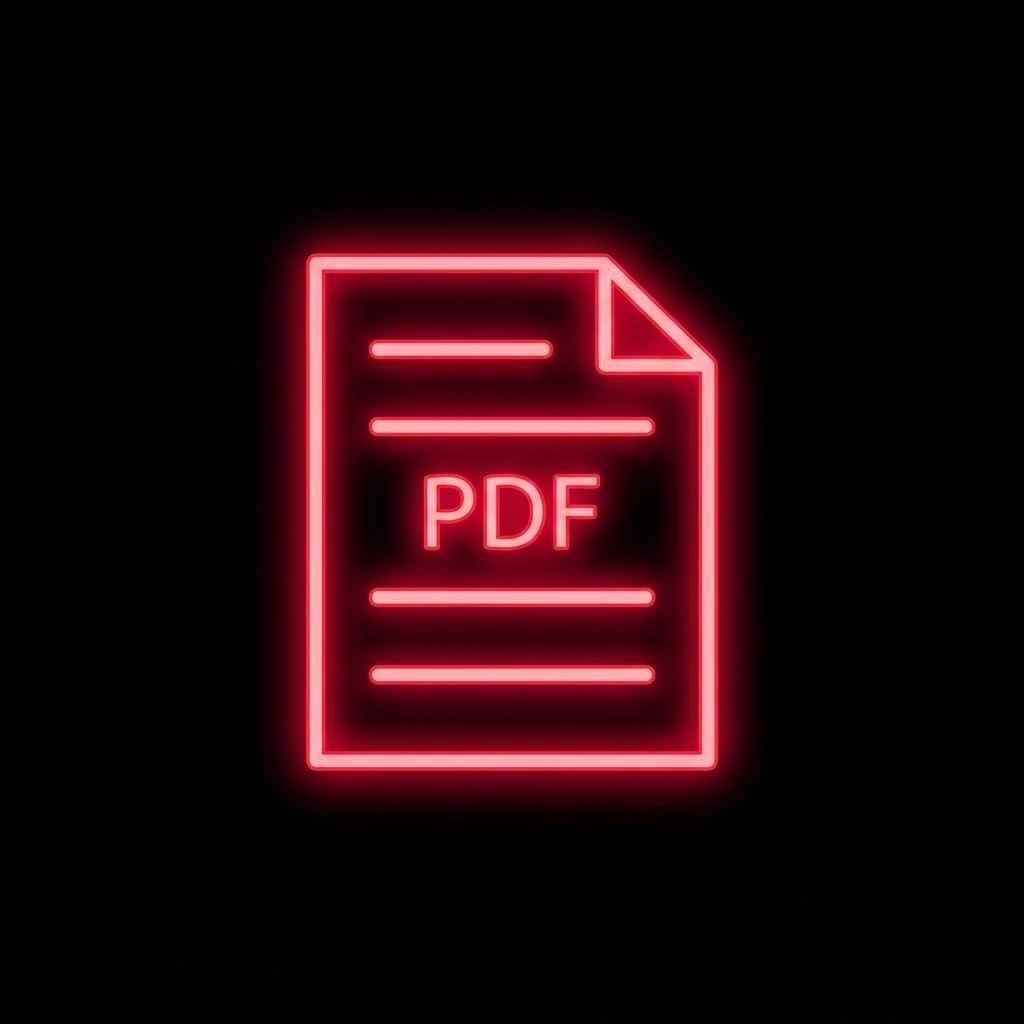
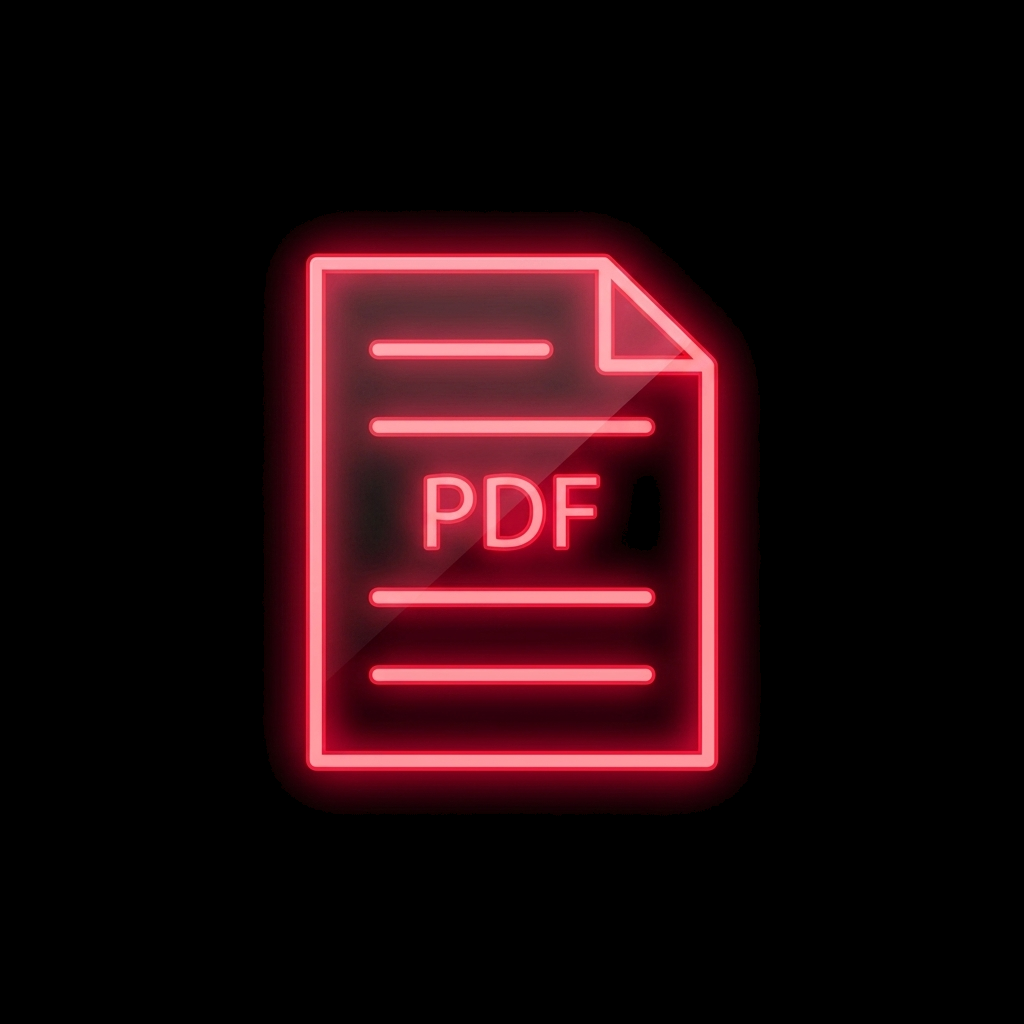
feat(assets): generar iconos y splash en alta resolución y gráficos oficiales para Google Play Store
- Corrige formato a PNG 32-bit real en icon.png (1024x1024) y splash.png
- Genera adaptive-icon.png con fondo transparente y logo escalado en zona segura (66%)
- Añade icono oficial de 512x512 px para ficha de Google Play Store en assets/playstore/icon-512.png
- Añade banner Feature Graphic de 1024x500 px con estética dark neon en assets/playstore/feature-graphic-1024x500.png
- Vincula favicon y banner OpenGraph en docs/index.html y docs/privacy-policy.html
- Actualiza PENDIENTES.md marcando la tarea como implementada

diff --git a/docs/index.html b/docs/index.html
@@ -8,10 +8,17 @@
   <meta name="author" content="Francisco Arias">
   <meta name="robots" content="index, follow">
   
+  <!-- Favicon -->
+  <link rel="icon" type="image/png" href="favicon.png">
+  <link rel="apple-touch-icon" href="favicon.png">
+
   <!-- Open Graph / Meta Social -->
   <meta property="og:type" content="website">
   <meta property="og:title" content="LibrePDF - Política de Privacidad">
   <meta property="og:description" content="LibrePDF es 100% local y offline. Tu privacidad es absoluta: sin anuncios, sin servidores externos, sin recolección de datos.">
+  <meta property="og:image" content="https://franciscoarias10.github.io/LibrePDF/feature-graphic.png">
+  <meta name="twitter:card" content="summary_large_image">
+  <meta name="twitter:image" content="https://franciscoarias10.github.io/LibrePDF/feature-graphic.png">
   
   <!-- Google Fonts -->
   <link rel="preconnect" href="https://fonts.googleapis.com">

diff --git a/docs/privacy-policy.html b/docs/privacy-policy.html
@@ -8,10 +8,17 @@
   <meta name="author" content="Francisco Arias">
   <meta name="robots" content="index, follow">
   
+  <!-- Favicon -->
+  <link rel="icon" type="image/png" href="favicon.png">
+  <link rel="apple-touch-icon" href="favicon.png">
+
   <!-- Open Graph / Meta Social -->
   <meta property="og:type" content="website">
   <meta property="og:title" content="LibrePDF - Política de Privacidad">
   <meta property="og:description" content="LibrePDF es 100% local y offline. Tu privacidad es absoluta: sin anuncios, sin servidores externos, sin recolección de datos.">
+  <meta property="og:image" content="https://franciscoarias10.github.io/LibrePDF/feature-graphic.png">
+  <meta name="twitter:card" content="summary_large_image">
+  <meta name="twitter:image" content="https://franciscoarias10.github.io/LibrePDF/feature-graphic.png">
   
   <!-- Google Fonts -->
   <link rel="preconnect" href="https://fonts.googleapis.com">

diff --git a/PENDIENTES.md b/PENDIENTES.md
@@ -9,7 +9,7 @@ Este documento contiene el listado oficial de tareas, requisitos de tienda y fun
 | Estado | Tarea | Descripción |
 | :---: | :--- | :--- |
 | ⏳ | **Identificador de Paquete Final** | Configurar en `app.json` el identificador final (ej. `com.franciscoarias.librepdf`), `versionCode: 1` y `versionName: "1.0.0"`. |
-| ⏳ | **Íconos y Splash en Alta Resolución** | Reemplazar los íconos genéricos de Expo por el logo oficial de LibrePDF en 512x512 px (Play Store) y 1024x500 px (Feature Graphic). |
+| ✅ | **Íconos, Splash y Feature Graphic** | Generados en alta resolución: ícono oficial de 1024x1024 px, ícono adaptativo Android con zona segura y transparencia, splash screen dark mode, ícono Play Store 512x512 px y banner Feature Graphic 1024x500 px en `/assets/playstore/`. |
 | ✅ | **Página de Política de Privacidad** | Creada en `/docs` lista para GitHub Pages (`https://franciscoarias10.github.io/LibrePDF/`), bilingüe (ES/EN), diseño premium dark mode y 100% compatible con Google Play. |
 | ⏳ | **Compilación de Producción (`.aab`)** | Ejecutar `npx eas build -p android --profile production` para generar el Android App Bundle listo para subir a Google Play Console. |
 
